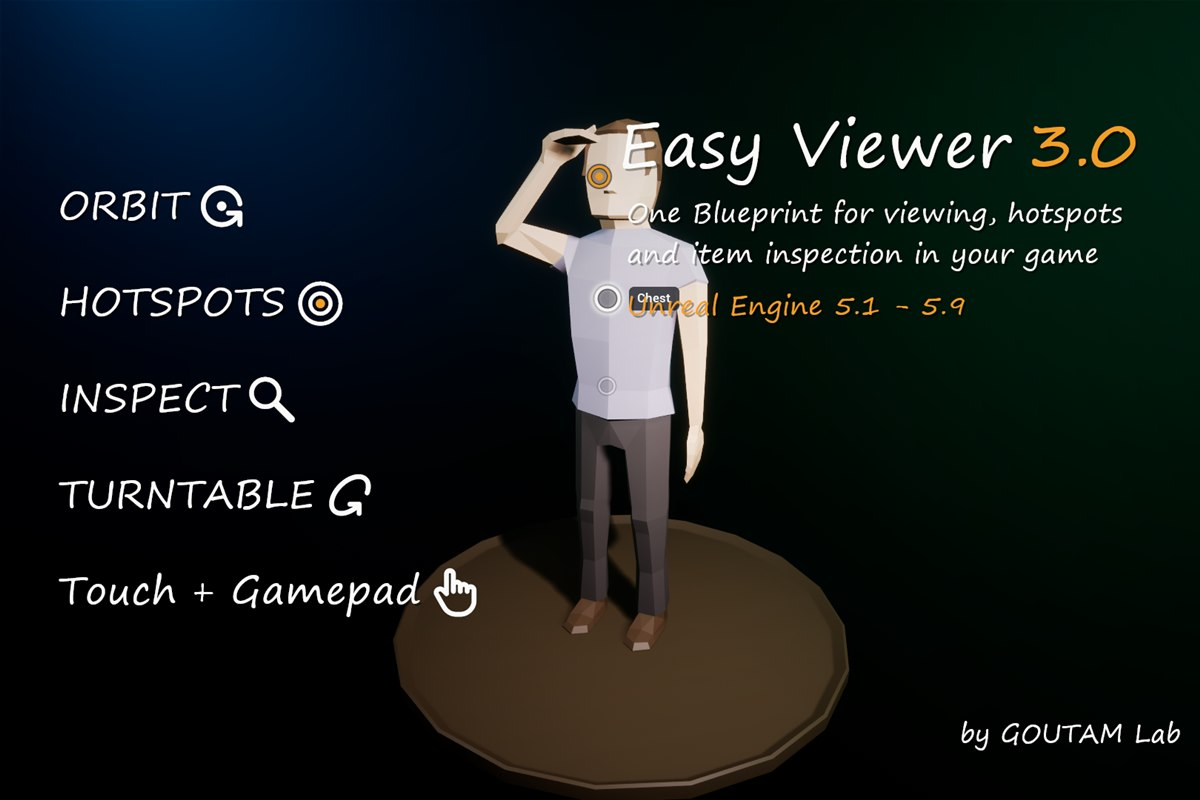
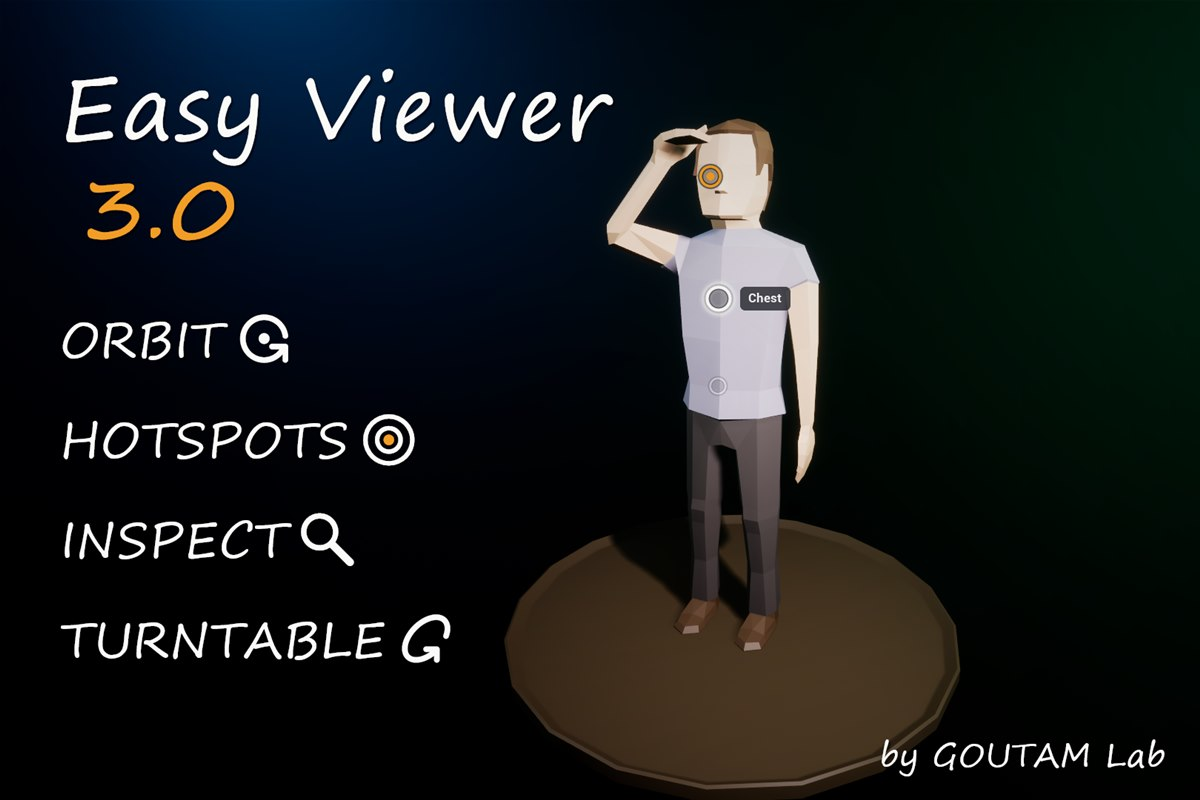
Fix garbled characters; paid projects use the standard card size
- projects.js was re-saved with the wrong encoding, so the live site showed
  mangled middle dots and dashes in the badge and engine range; restored
- Paid projects now use the same small cards as free tools (room for more)
- New EasyViewer card thumbnail with no text over the character

diff --git a/src/projects.js b/src/projects.js
@@ -7,17 +7,17 @@ export const projects = [
     name: 'EasyViewer',
     status: 'available',
     tier: 'paid',
-    badge: 'Fab Â· Paid',
+    badge: 'Fab · Paid',
     description: 'Orbit viewer, clickable hotspots and in-game item inspection for Unreal Engine. Blueprint only.',
     image: asset('easyviewer.jpg'),
     imageAlt: 'A low-poly character on a lit pedestal with hotspot rings on the head and chest.',
-    platforms: ['Unreal Engine 5.1 â€“ 5.9'],
+    platforms: ['Unreal Engine 5.1 – 5.9'],
     plannedPlatforms: [],
     downloadUrl: null,
     storeUrl: 'https://www.fab.com/search?q=EasyViewer',
     storeLabel: 'Get it on Fab',
     gallery: [
-      { src: asset('easyviewer/00_overview.jpg'), title: 'EasyViewer 3.0', text: 'Orbit viewer, hotspots, item inspection and turntable. Blueprint only, UE 5.1 â€“ 5.9, mouse, touch and gamepad.', alt: 'EasyViewer screenshot: easyviewer 3.0.' },
+      { src: asset('easyviewer/00_overview.jpg'), title: 'EasyViewer 3.0', text: 'Orbit viewer, hotspots, item inspection and turntable. Blueprint only, UE 5.1 – 5.9, mouse, touch and gamepad.', alt: 'EasyViewer screenshot: easyviewer 3.0.' },
       { src: asset('easyviewer/03_hotspot_chest.jpg'), title: 'Focus on a detail', text: 'Click a hotspot and the camera flies to it, then orbit, pan and zoom stay around that spot.', alt: 'EasyViewer screenshot: focus on a detail.' },
       { src: asset('easyviewer/05_turntable.jpg'), title: 'Turntable mode', text: 'Drag on the object to spin it, drag anywhere else to orbit the camera. Works with touch.', alt: 'EasyViewer screenshot: turntable mode.' },
       { src: asset('easyviewer/07_inspect_item.jpg'), title: 'Item inspection', text: 'Pick up an item from gameplay, turn it in your hands and put it back exactly where it was.', alt: 'EasyViewer screenshot: item inspection.' },
@@ -27,7 +27,7 @@ export const projects = [
     features: [
       ['Orbit viewer', 'Orbit, pan and zoom with smoothing, inertia and automatic framing. The camera never goes below the ground.'],
       ['Hotspots', 'Rings grow and show their name on hover. Click one and the camera flies to that detail and stays around it.'],
-      ['Item inspection', 'Call Inspect Item from gameplay: the item flies into the playerâ€™s hands, turns freely and goes back exactly where it was.'],
+      ['Item inspection', 'Call Inspect Item from gameplay: the item flies into the player’s hands, turns freely and goes back exactly where it was.'],
       ['Turntable mode', 'Drag on the object to spin it, drag anywhere else to orbit the camera. Works with touch on mobile.'],
     ],
     support: 'Blueprint only, no code modules. Tested on every Unreal Engine version from 5.1 to 5.9 on Windows, and on Android. Builds for Windows, macOS, Linux, Android and iOS. Available on Fab.',
@@ -101,8 +101,8 @@ export const projects = [
 });
 
 export const tiers = [
-  { id: 'paid', eyebrow: 'Paid Â· on Fab', title: 'Projects', note: 'Complete, supported projects. Bought and downloaded through Fab.' },
-  { id: 'free', eyebrow: 'Free Â· download here', title: 'Free tools', note: 'Small tools shared for free. Download them right here.' },
+  { id: 'paid', eyebrow: 'Paid · on Fab', title: 'Projects', note: 'Complete, supported projects. Bought and downloaded through Fab.' },
+  { id: 'free', eyebrow: 'Free · download here', title: 'Free tools', note: 'Small tools shared for free. Download them right here.' },
 ];
 
 export const filters = [

diff --git a/src/styles.css b/src/styles.css
@@ -397,12 +397,10 @@ img { display: block; max-width: 100%; }
 .tier-heading h2 { font-family: var(--display); font-size: clamp(28px, 2.6vw, 38px); font-weight: 700; margin: 0; line-height: 1.1; }
 .tier-count { display: inline-block; vertical-align: middle; font: 600 14px/1 'IBM Plex Mono', monospace; color: var(--muted); border: 1px solid var(--rule); padding: 5px 8px; margin-left: 8px; }
 .tier-note { color: var(--muted); font-size: 14px; max-width: 360px; margin: 0; text-align: right; line-height: 1.6; }
-.tier-section[data-tier='paid'] .project-grid { grid-template-columns: repeat(2, minmax(0, 1fr)); }
 .tool-art .status-badge.available { background: var(--accent); color: var(--paper); border-color: var(--accent); }
 @media (max-width: 760px) {
   .tier-heading { flex-direction: column; align-items: flex-start; }
   .tier-note { text-align: left; }
-  .tier-section[data-tier='paid'] .project-grid { grid-template-columns: 1fr; }
 }
 
 /* ---- About me ---- */
@@ -453,16 +451,6 @@ img { display: block; max-width: 100%; }
 @media (max-width: 860px) { .site-footer .footer-inner { grid-template-columns: 1fr 1fr; } }
 @media (max-width: 520px) { .site-footer .footer-inner { grid-template-columns: 1fr; } .footer-bar-inner { flex-direction: column; align-items: flex-start; } }
 
-/* Paid projects: wide featured card, image left and copy right */
-.tier-section[data-tier='paid'] .project-grid { grid-template-columns: 1fr; }
-.tier-section[data-tier='paid'] .tool-card-link { display: grid; grid-template-columns: minmax(0, 1.45fr) minmax(0, 1fr); height: 100%; }
-.tier-section[data-tier='paid'] .tool-art { height: 100%; }
-.tier-section[data-tier='paid'] .tool-art img { height: 100%; object-fit: cover; }
-.tier-section[data-tier='paid'] .tool-copy { padding: clamp(28px, 3vw, 48px); justify-content: center; }
-.tier-section[data-tier='paid'] .tool-copy h2 { font-size: clamp(30px, 3vw, 44px); }
-.tier-section[data-tier='paid'] .tool-description { font-size: 16px; line-height: 1.75; }
-@media (max-width: 900px) { .tier-section[data-tier='paid'] .tool-card-link { grid-template-columns: 1fr; } }
-@media (min-width: 901px) { .tier-section[data-tier='paid'] .tool-art { border-bottom: 0; border-right: 1px solid var(--edge); } }
 
 /* ---- About me: hero with photo and journey card ---- */
 .about-page { max-width: 1320px; }
